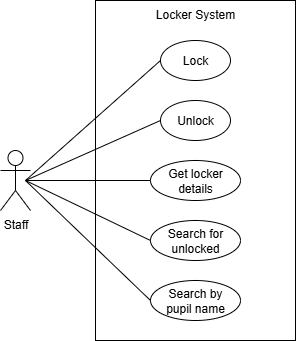
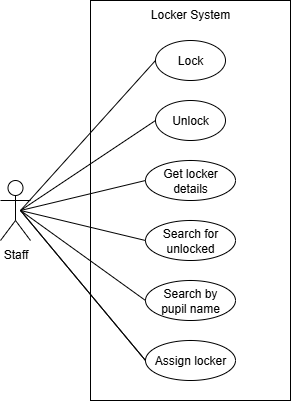
Updated

diff --git a/ah-cs/sdd/AH-SDD-Lockers/assets/AH-SDD-Lockers.py b/ah-cs/sdd/AH-SDD-Lockers/assets/AH-SDD-Lockers.py
@@ -52,7 +52,7 @@ class Locker:
         # Return result
         return success
             
-    def status(self) -> tuple:
+    def details(self) -> tuple:
         '''Method to return the status of a locker.'''
         
         return self.__lockerNo, self.__pupil, self.__isLocked
@@ -106,11 +106,26 @@ def findLocked(arrayOfObjects):
     '''Procedure to find locked lockers, and display their numbers.'''
     
     # Loop for each locker
-    for index in range(arrayOfObjects):
-        '''Encapsulation!'''
-        if arrayOfObjects[index].__isLocked == True:
+    for index in range(len(arrayOfObjects)):
+        
+        currentLocker = arrayOfObjects[index].details()
+        
+        if currentLocker[2] == True:
             
-            arrayOfObjects[index].status()
+            print(currentLocker[0])
+
+
+def findPupil(arrayOfObjects, pupilName):
+    '''Procedure to find a pupil's locker, and display the number.'''
+    
+    # Loop for each locker
+    for index in range(len(arrayOfObjects)):
+        
+        currentLocker = arrayOfObjects[index].details()
+        
+        if currentLocker[1] == pupilName:
+            
+            print(currentLocker[0])
 
 
 #
@@ -119,6 +134,11 @@ def findLocked(arrayOfObjects):
 
 objects = readData()
 
+findLocked(objects)
+
+findPupil(objects, 'Tom')
+
+'''
 newLocker = Locker(1, 'Tom')
 
 print(newLocker.status())
@@ -132,4 +152,4 @@ print(newLocker.unlock())
 print(newLocker.unlock())
 
 print(newLocker.status())
-
+'''

diff --git a/ah-cs/sdd/AH-SDD-Lockers/index2.md b/ah-cs/sdd/AH-SDD-Lockers/index2.md
@@ -34,6 +34,7 @@ The app should allow staff to:
 * get the information about a locker (locker number, pupil name, and locked status)
 * search for unlocked lockers
 * search for the locker number of a specific pupil
+* assign a locker to a pupil
 
 
 ## UML Use Case Diagram

diff --git a/ah-cs/sdd/AH-SDD-Lockers/index3.md b/ah-cs/sdd/AH-SDD-Lockers/index3.md
@@ -34,6 +34,7 @@ The app should allow staff to:
 * get the information about a locker (locker number, pupil name, and locked status)
 * search for unlocked lockers
 * search for the locker number of a specific pupil
+* assign a locker to a pupil
 
 
 ## UML Use Case Diagram

diff --git a/ah-cs/sdd/AH-SDD-Lockers/README.md b/ah-cs/sdd/AH-SDD-Lockers/README.md
@@ -34,6 +34,7 @@ The app should allow staff to:
 * get the information about a locker (locker number, pupil name, and locked status)
 * search for unlocked lockers
 * search for the locker number of a specific pupil
+* assign a locker to a pupil
 
 
 ## Tasks
